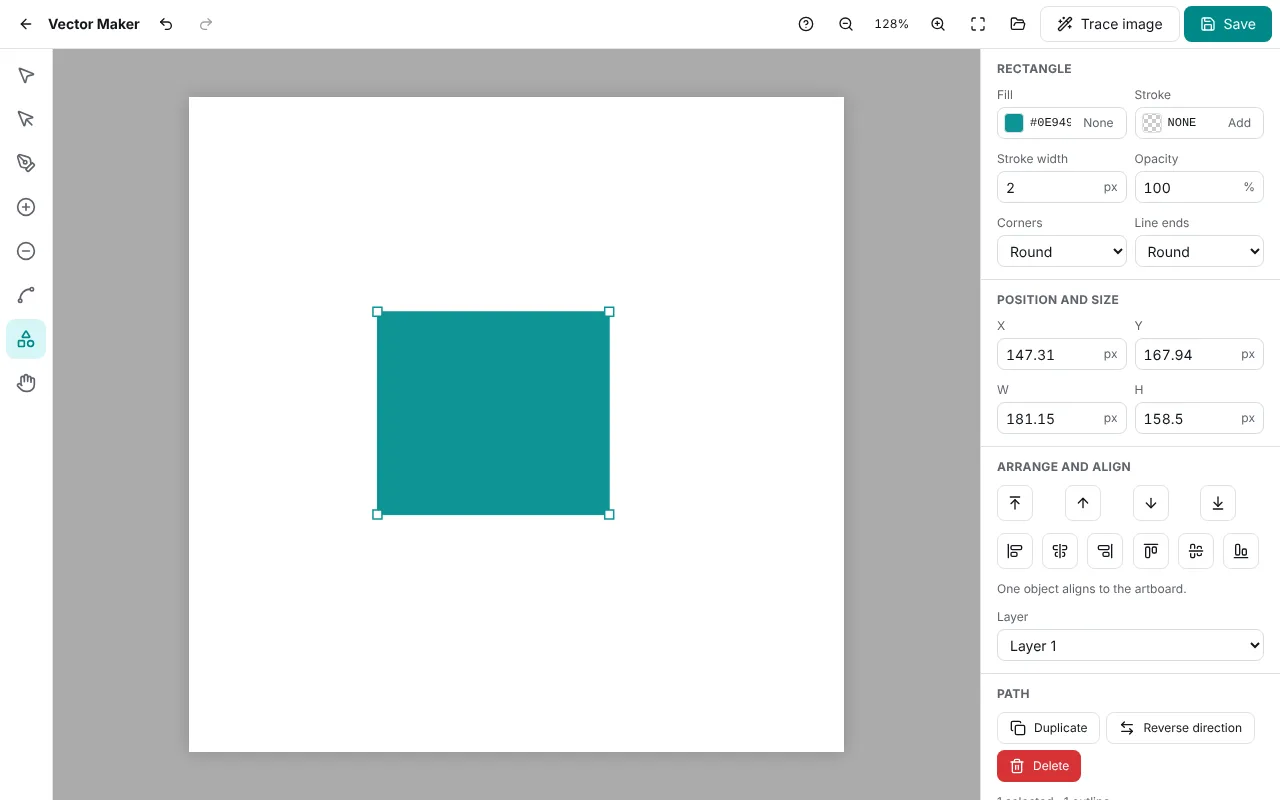
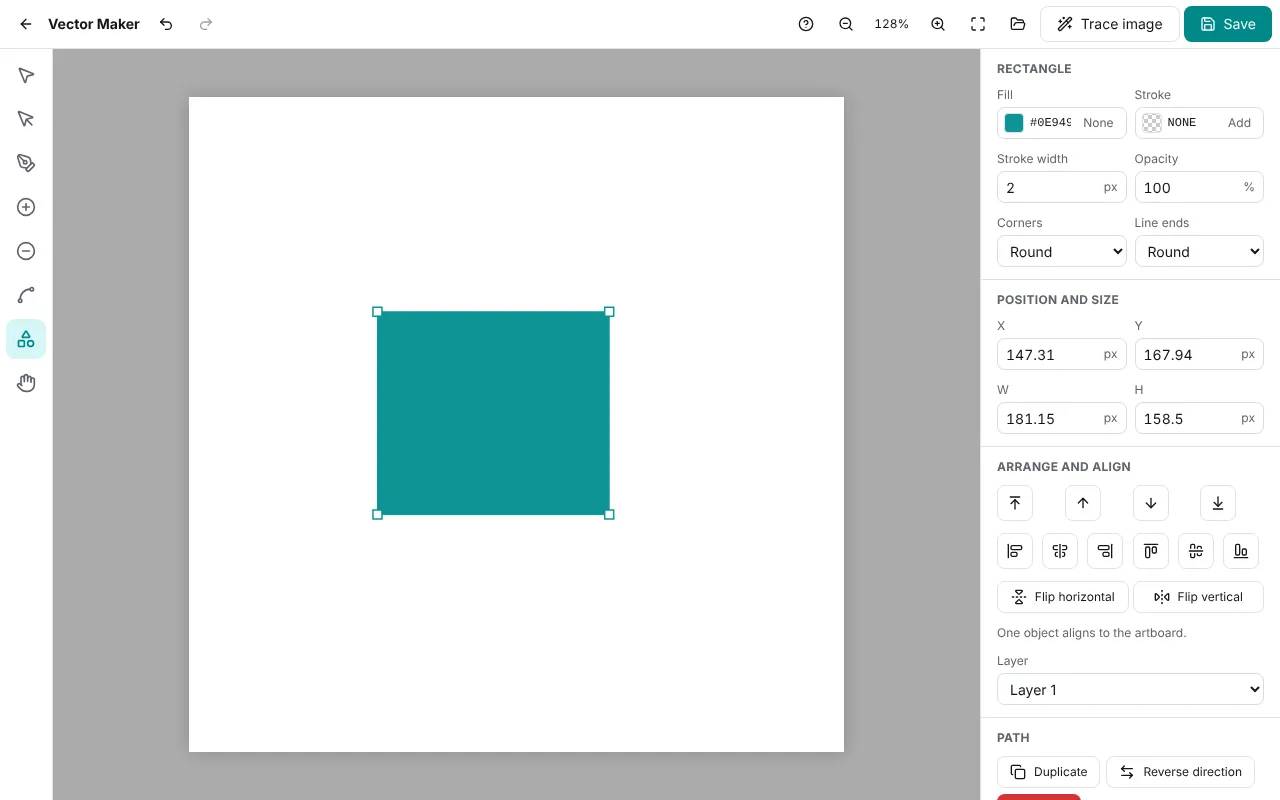
Touch edit bar, Undo in merge and find, Vector Maker flipping
- Touch screens: a bar over the canvas with Select several, Duplicate
  and Delete; in Select several a tap toggles a part, a drag keeps the
  selection
- Mail merge and Find and replace: an Undo button next to the result
  (shortcuts are paused there, so Ctrl+Z couldn't work)
- Vector Maker: Flip horizontal / vertical (Shift+H / Shift+V), and
  dragging a side of the selection box past the other side flips it
- Help pages updated

Claude-Session: https://claude.ai/code/session_01JuxSeuQwLFU8dX21pAD1MF

Changed region(s): [[0.7812, 0.7188, 0.9688, 1.0]]

diff --git a/src/ui/canvas/SelectionActions.tsx b/src/ui/canvas/SelectionActions.tsx
@@ -1,5 +1,6 @@
-import { Crop, ImageUp, Minus, Plus, RotateCcw } from 'lucide-react'
+import { Copy, Crop, ImageUp, ListChecks, Minus, Plus, RotateCcw, Trash2 } from 'lucide-react'
 import { setView, useEditor } from '@/core/editor/editorStore'
+import { deleteSelection, duplicateSelection } from '@/core/editor/elementCommands'
 import { findSurfaceElement, isLayoutEditable } from '@/core/editor/selectors'
 import {
   currentCount,
@@ -11,20 +12,82 @@ import {
 } from '@/templates/fieldCommands'
 import { chooseIconFor, chooseImageFor } from '@/ui/actions/imageActions'
 import { Button, IconButton } from '@/ui/components/ui/button'
+import { deletedToast } from '@/ui/actions/undoToast'
 import { useImageValue } from '@/ui/panels/properties/useFieldValues'
+import { useCoarsePointer } from '@/ui/shell/useLayout'
 
+const STACK =
+  'absolute bottom-20 left-1/2 z-10 flex -translate-x-1/2 flex-col items-center gap-2 md:bottom-16'
 const BAR =
-  'absolute bottom-20 left-1/2 z-10 flex -translate-x-1/2 items-center gap-1 rounded-xl border bg-panel/95 p-1 shadow-md backdrop-blur md:bottom-16'
+  'flex max-w-[calc(100vw-1rem)] items-center gap-1 rounded-xl border bg-panel/95 p-1 shadow-md backdrop-blur'
 
-/** Quick actions for a selected art box or icon row, floating over the canvas on every layout. */
+/**
+ * Quick actions floating over the canvas: for a selected art box or icon row,
+ * and on touch screens (no Delete key, no Shift-click) select several,
+ * duplicate and delete.
+ */
 export function SelectionActions() {
   const id = useEditor((s) => (s.view.selection.length === 1 ? s.view.selection[0] : null))
   const type = useEditor((s) => (id ? findSurfaceElement(s, id)?.type : undefined))
   const editingText = useEditor((s) => !!s.view.editingTextId)
-  if (!id || editingText) return null
-  if (type === 'imageField') return <Bar id={id} />
-  if (type === 'iconRow') return <CountBar id={id} />
-  return null
+  const count = useEditor((s) => s.view.selection.length)
+  const multi = useEditor((s) => s.view.multiSelect)
+  const touch = useCoarsePointer()
+  if (editingText) return null
+  const typeBar =
+    id && type === 'imageField' ? (
+      <Bar id={id} />
+    ) : id && type === 'iconRow' ? (
+      <CountBar id={id} />
+    ) : null
+  const editBar = touch && (count > 0 || multi) ? <EditBar /> : null
+  if (!typeBar && !editBar) return null
+  return (
+    <div className={STACK} onPointerDown={(e) => e.stopPropagation()}>
+      {editBar}
+      {typeBar}
+    </div>
+  )
+}
+
+/** Select several, Duplicate and Delete, for fingers. */
+function EditBar() {
+  const count = useEditor((s) => s.view.selection.length)
+  const multi = useEditor((s) => s.view.multiSelect)
+  // Template parts can't be deleted or copied on a card, only in template mode.
+  const editable = useEditor((s) => s.view.selection.filter((x) => isLayoutEditable(s, x)).length)
+  const remove = () => {
+    const before = useEditor.getState().doc
+    deleteSelection()
+    if (useEditor.getState().doc !== before) deletedToast(count === 1 ? 'Layer' : `${count} layers`)
+  }
+  return (
+    <div className={BAR} data-testid="edit-bar">
+      <Button
+        size="sm"
+        variant={multi ? 'default' : 'ghost'}
+        aria-pressed={multi}
+        onClick={() => setView({ multiSelect: !multi })}
+      >
+        <ListChecks /> {multi ? 'Done' : 'Select several'}
+      </Button>
+      {multi && (
+        <span className="px-1 text-xs text-muted-foreground" aria-live="polite">
+          {count} selected
+        </span>
+      )}
+      {editable > 0 && (
+        <>
+          <IconButton label="Duplicate" size="icon-sm" variant="ghost" onClick={duplicateSelection}>
+            <Copy />
+          </IconButton>
+          <IconButton label="Delete" size="icon-sm" variant="ghost" onClick={remove}>
+            <Trash2 />
+          </IconButton>
+        </>
+      )}
+    </div>
+  )
 }
 
 /** − count + for icon rows, so stats are quick to set on each card. */
@@ -39,7 +102,7 @@ function CountBar({ id }: { id: string }) {
   const canSetIcon = useEditor((s) => isLayoutEditable(s, id))
   const overridden = useEditor(() => hasCardValue(id))
   return (
-    <div className={BAR} onPointerDown={(e) => e.stopPropagation()}>
+    <div className={BAR}>
       {noIcon && canSetIcon && (
         <Button size="sm" onClick={() => void chooseIconFor(id)}>
           <ImageUp /> Choose icon
@@ -125,7 +188,7 @@ function Bar({ id }: { id: string }) {
   const overridden = useEditor(() => hasCardValue(id))
   const has = !!value?.assetId
   return (
-    <div className={BAR} onPointerDown={(e) => e.stopPropagation()}>
+    <div className={BAR}>
       <Button size="sm" onClick={() => void chooseImageFor(id)}>
         <ImageUp /> {has ? 'Replace image' : 'Choose image'}
       </Button>

diff --git a/src/core/render/CardStage.tsx b/src/core/render/CardStage.tsx
@@ -80,6 +80,9 @@ export function CardStage(props: CardStageProps) {
     marquee: { x: number; y: number; additive: boolean } | null
   }>({ pointers: new Map(), pinch: null, pan: null, marquee: null })
   const spaceDown = useRef(false)
+  // "Select several" (touch): a tap on a selected part takes it out, but pressing it
+  // to drag the whole selection must not, so the removal waits for a tap.
+  const pendingDeselect = useRef<{ id: string; x: number; y: number } | null>(null)
 
   // ---------- sizing ----------
   useEffect(() => {
@@ -196,10 +199,13 @@ export function CardStage(props: CardStageProps) {
         if (gesture.current.pinch || spaceDown.current || e.evt.button === 1) return
         e.cancelBubble = true
         const s = useEditor.getState()
-        const additive = e.evt.shiftKey || e.evt.metaKey || e.evt.ctrlKey
+        const additive = e.evt.shiftKey || e.evt.metaKey || e.evt.ctrlKey || s.view.multiSelect
         // Clicking inside an already-selected group drills into the child.
         const target = drillTarget(e.target, id, s.view.selection)
-        if (additive) {
+        const keys = e.evt.shiftKey || e.evt.metaKey || e.evt.ctrlKey
+        if (additive && !keys && s.view.selection.includes(target)) {
+          pendingDeselect.current = { id: target, x: e.evt.clientX, y: e.evt.clientY }
+        } else if (additive) {
           const sel = s.view.selection.includes(target)
             ? s.view.selection.filter((x) => x !== target)
             : [...s.view.selection, target]
@@ -442,6 +448,10 @@ export function CardStage(props: CardStageProps) {
 
   const onPointerUp = (e: React.PointerEvent) => {
     const g = gesture.current
+    const pd = pendingDeselect.current
+    pendingDeselect.current = null
+    if (pd && Math.hypot(e.clientX - pd.x, e.clientY - pd.y) < 6)
+      select(useEditor.getState().view.selection.filter((x) => x !== pd.id))
     g.pointers.delete(e.pointerId)
     if (g.pointers.size < 2) g.pinch = null
     if (g.pointers.size === 0) g.pan = null
@@ -470,7 +480,8 @@ export function CardStage(props: CardStageProps) {
     if (g.pinch || g.pan) return
     // Empty canvas: clear selection; with a mouse, start a marquee.
     if (e.target === e.target.getStage() || e.target.name() === 'backdrop') {
-      const additive = e.evt.shiftKey || e.evt.metaKey || e.evt.ctrlKey
+      const additive =
+        e.evt.shiftKey || e.evt.metaKey || e.evt.ctrlKey || useEditor.getState().view.multiSelect
       if (!additive) select([])
       if (e.evt.pointerType === 'mouse' && e.evt.button === 0) {
         const p = localPoint(e.evt)

diff --git a/src/ui/merge/MailMergeDialog.tsx b/src/ui/merge/MailMergeDialog.tsx
@@ -1,6 +1,6 @@
-import { FileSpreadsheet, Loader2, Upload } from 'lucide-react'
+import { FileSpreadsheet, Loader2, Undo2, Upload } from 'lucide-react'
 import { useMemo, useState } from 'react'
-import { useEditor } from '@/core/editor/editorStore'
+import { undo, useEditor } from '@/core/editor/editorStore'
 import { currentCard } from '@/core/editor/selectors'
 import { walk } from '@/core/model/tree'
 import type { FieldElement, Id, MergeSettings, Template } from '@/core/model/types'
@@ -158,9 +158,7 @@ export function MergeForm({ onClose }: { onClose: () => void }) {
     setMergeSettings(settings)
     const r = runMerge(plan)
     setEdits({})
-    setDone(
-      `Done: ${r.added} card${r.added === 1 ? '' : 's'} added, ${r.updated} updated. Undo with Ctrl+Z (or the undo button).`,
-    )
+    setDone(`Done: ${r.added} card${r.added === 1 ? '' : 's'} added, ${r.updated} updated.`)
   }
 
   const colInput = (
@@ -427,8 +425,19 @@ export function MergeForm({ onClose }: { onClose: () => void }) {
           </ul>
         )}
         {done && (
-          <p role="status" className="text-sm text-accent">
+          <p role="status" className="flex items-center gap-2 text-sm text-accent">
             {done}
+            {/* Shortcuts are paused while this is open, so undo is a button here. */}
+            <Button
+              size="sm"
+              variant="outline"
+              onClick={() => {
+                undo()
+                setDone(null)
+              }}
+            >
+              <Undo2 /> Undo
+            </Button>
           </p>
         )}
         <div className="flex items-center justify-between gap-3">

diff --git a/src/ui/find/FindReplaceDialog.tsx b/src/ui/find/FindReplaceDialog.tsx
@@ -1,6 +1,7 @@
+import { Undo2 } from 'lucide-react'
 import { useMemo, useState } from 'react'
 import { selectCard } from '@/core/editor/cardCommands'
-import { commit, useEditor } from '@/core/editor/editorStore'
+import { commit, undo, useEditor } from '@/core/editor/editorStore'
 import {
   findMatches,
   findPattern,
@@ -56,7 +57,7 @@ function FindForm({ onClose }: { onClose: () => void }) {
         opts,
       )
     })
-    setDone(`Replaced ${n} time${n === 1 ? '' : 's'}. Undo with Ctrl+Z (or the undo button).`)
+    setDone(`Replaced ${n} time${n === 1 ? '' : 's'}.`)
     setSkip(new Set())
   }
   const open = (m: Match) => {
@@ -142,8 +143,19 @@ function FindForm({ onClose }: { onClose: () => void }) {
         </ul>
       )}
       {done && (
-        <p role="status" className="text-sm text-accent">
+        <p role="status" className="flex items-center gap-2 text-sm text-accent">
           {done}
+          {/* Shortcuts are paused while this is open, so undo is a button here. */}
+          <Button
+            size="sm"
+            variant="outline"
+            onClick={() => {
+              undo()
+              setDone(null)
+            }}
+          >
+            <Undo2 /> Undo
+          </Button>
         </p>
       )}
       <div className="flex items-center justify-between gap-2">

diff --git a/src/vector/actions.test.ts b/src/vector/actions.test.ts
@@ -1,0 +1,30 @@
+import { describe, expect, it } from 'vitest'
+import { addShape, flipSelection, selectedItems, selectionBounds } from './actions'
+import { newDoc } from './model'
+import { loadVectorDoc, useVector } from './store'
+
+describe('flipSelection', () => {
+  it('mirrors in place, about the middle of the selection', () => {
+    loadVectorDoc(newDoc())
+    // A right triangle: its corner on the left, so a flip moves it to the right.
+    addShape('triangle', { x: 100, y: 50, w: 200, h: 100 })
+    const before = selectionBounds()!
+    const xs = () => selectedItems()[0].subpaths[0].anchors.map((a) => Math.round(a.x))
+    const ys = () => selectedItems()[0].subpaths[0].anchors.map((a) => Math.round(a.y))
+    const x0 = xs()
+    const y0 = ys()
+    flipSelection('horizontal')
+    expect(selectionBounds()).toEqual(before)
+    expect(xs()).toEqual(x0.map((x) => 400 - x))
+    expect(ys()).toEqual(y0)
+    flipSelection('vertical')
+    expect(ys()).toEqual(y0.map((y) => 200 - y))
+    // Each flip is one undo step.
+    expect(useVector.getState().past.length).toBeGreaterThanOrEqual(3)
+  })
+
+  it('does nothing without a selection', () => {
+    loadVectorDoc(newDoc())
+    expect(() => flipSelection('vertical')).not.toThrow()
+  })
+})

diff --git a/src/vector/ui/PropsPanel.tsx b/src/vector/ui/PropsPanel.tsx
@@ -1,4 +1,6 @@
 import {
+  FlipHorizontal2,
+  FlipVertical2,
   AlignCenterHorizontal,
   AlignCenterVertical,
   AlignEndHorizontal,
@@ -40,6 +42,7 @@ import {
   setSelectionBox,
   setShapeParam,
   setStyle,
+  flipSelection,
 } from '../actions'
 import { findItem } from '../model'
 import { shapeById } from '../shapes'
@@ -384,6 +387,14 @@ export function PropsPanel() {
           <IconButton label="Align bottom" variant="outline" onClick={() => align('bottom')}>
             <AlignEndHorizontal />
           </IconButton>
+        </div>
+        <div className="grid grid-cols-2 gap-1">
+          <Button variant="outline" size="sm" onClick={() => flipSelection('horizontal')}>
+            <FlipHorizontal2 /> Flip horizontal
+          </Button>
+          <Button variant="outline" size="sm" onClick={() => flipSelection('vertical')}>
+            <FlipVertical2 /> Flip vertical
+          </Button>
         </div>
         <p className="text-xs text-muted-foreground">
           {items.length === 1

diff --git a/src/vector/ui/VectorMaker.tsx b/src/vector/ui/VectorMaker.tsx
@@ -24,6 +24,7 @@ import {
   duplicateSelection,
   removeLastPenPoint,
   transformSelection,
+  flipSelection,
 } from '../actions'
 import { translateM } from '../geometry'
 import { newDoc, parseDoc } from '../model'
@@ -181,6 +182,8 @@ export default function VectorMaker() {
         return
       }
       if (e.shiftKey && k === 'c') return run(() => setTool('convert'))
+      if (e.shiftKey && k === 'h') return run(() => flipSelection('horizontal'))
+      if (e.shiftKey && k === 'v') return run(() => flipSelection('vertical'))
       const keys: Record<string, Parameters<typeof setTool>[0]> = {
         v: 'select',
         a: 'direct',

diff --git a/src/vector/actions.ts b/src/vector/actions.ts
@@ -50,6 +50,15 @@ export function transformSelection(m: Matrix, coalesce?: string, ids = sel()) {
   }, coalesce)
 }
 
+/** Mirror the selection in place, about the centre of its bounding box. */
+export function flipSelection(axis: 'horizontal' | 'vertical') {
+  const b = selectionBounds()
+  if (!b) return
+  const cx = b.x + b.w / 2
+  const cy = b.y + b.h / 2
+  transformSelection(axis === 'horizontal' ? [-1, 0, 0, 1, 2 * cx, 0] : [1, 0, 0, -1, 0, 2 * cy])
+}
+
 /** Resize / move the selection to a new bounding box (X, Y, W, H fields). */
 export function setSelectionBox(next: Partial<Box>) {
   const b = selectionBounds()

diff --git a/src/ui/actions/useShortcuts.ts b/src/ui/actions/useShortcuts.ts
@@ -62,7 +62,9 @@ export function useShortcuts() {
             deletedToast(n === 1 ? 'Layer' : `${n} layers`)
         })
       if (k === 'escape')
-        return run(() => setView({ selection: [], editingTextId: null, cropId: null }))
+        return run(() =>
+          setView({ selection: [], editingTextId: null, cropId: null, multiSelect: false }),
+        )
       const step = e.shiftKey ? 5 : 0.5
       if (k === 'arrowleft') return run(() => nudgeSelection(-step, 0))
       if (k === 'arrowright') return run(() => nudgeSelection(step, 0))

diff --git a/src/core/editor/editorStore.ts b/src/core/editor/editorStore.ts
@@ -44,6 +44,8 @@ export interface ViewState {
   cropId: Id | null
   showOverlay: boolean
   snapping: boolean
+  /** Taps add to / remove from the selection (touch screens have no Shift key). */
+  multiSelect: boolean
 }
 
 export interface EditorState {
@@ -64,6 +66,7 @@ export const initialView: ViewState = {
   cropId: null,
   showOverlay: true,
   snapping: true,
+  multiSelect: false,
 }
 
 export const useEditor = create<EditorState>(() => ({

diff --git a/src/vector/ui/VectorCanvas.tsx b/src/vector/ui/VectorCanvas.tsx
@@ -1143,7 +1143,7 @@ export function VectorCanvas() {
               anchorStroke={ACCENT}
               anchorSize={touch ? 18 : 9}
               rotateAnchorOffset={touch ? 32 : 22}
-              flipEnabled={false}
+              flipEnabled
               onTransformEnd={onTransformEnd}
             />
           </Layer>

diff --git a/DECISIONS.md b/DECISIONS.md
@@ -323,3 +323,9 @@ Where CLAUDE.md left room, the simplest option that fits it was picked. Each cho
 - **Escape closes only the top-most view** now (a small stack in `src/ui/components/overlay.ts`), so Escape in Help opened over Print closes Help. Help also registers for Android's Back button.
 - **Help sits above full-screen views** (z-index 70) but below dialogs; F1 closes the export dialogs first, since a dialog can't have a view on top of it.
 - **Found while writing the pages:** the left pane could grow wider than its column (cut-off buttons in the Decks panel with long card names); fixed with `min-w-0`. The Tabletop Simulator "How to import.txt" named the wrong menu path; it now says Objects → Components → Custom → Deck.
+
+## Touch editing, undo in dialogs, Vector Maker mirroring
+
+- **Touch screens get a small edit bar** over the canvas whenever something is selected: **Select several** (taps then add or remove parts, since fingers have no Shift key), **Duplicate** and **Delete** (only for parts that can be changed here: a card's own layers, or template parts in Template mode). In Select several, a tap on a selected part takes it out, but pressing it to drag keeps the selection, so several parts can be moved together. Esc or **Done** ends it. The flag lives in the editor view state (`multiSelect`).
+- **Mail merge and Find and replace** show an **Undo** button next to their "Done" message. The card editor's shortcuts are paused while these are open, so the old "Undo with Ctrl+Z" hint didn't work there.
+- **Vector Maker mirroring:** **Flip horizontal** / **Flip vertical** in Arrange and align (Shift+H / Shift+V), mirroring about the centre of the selection. Dragging a side of the selection box past the opposite side now turns the shape over (Konva's transformer flipping), and the result is baked into the path like any other transform.
